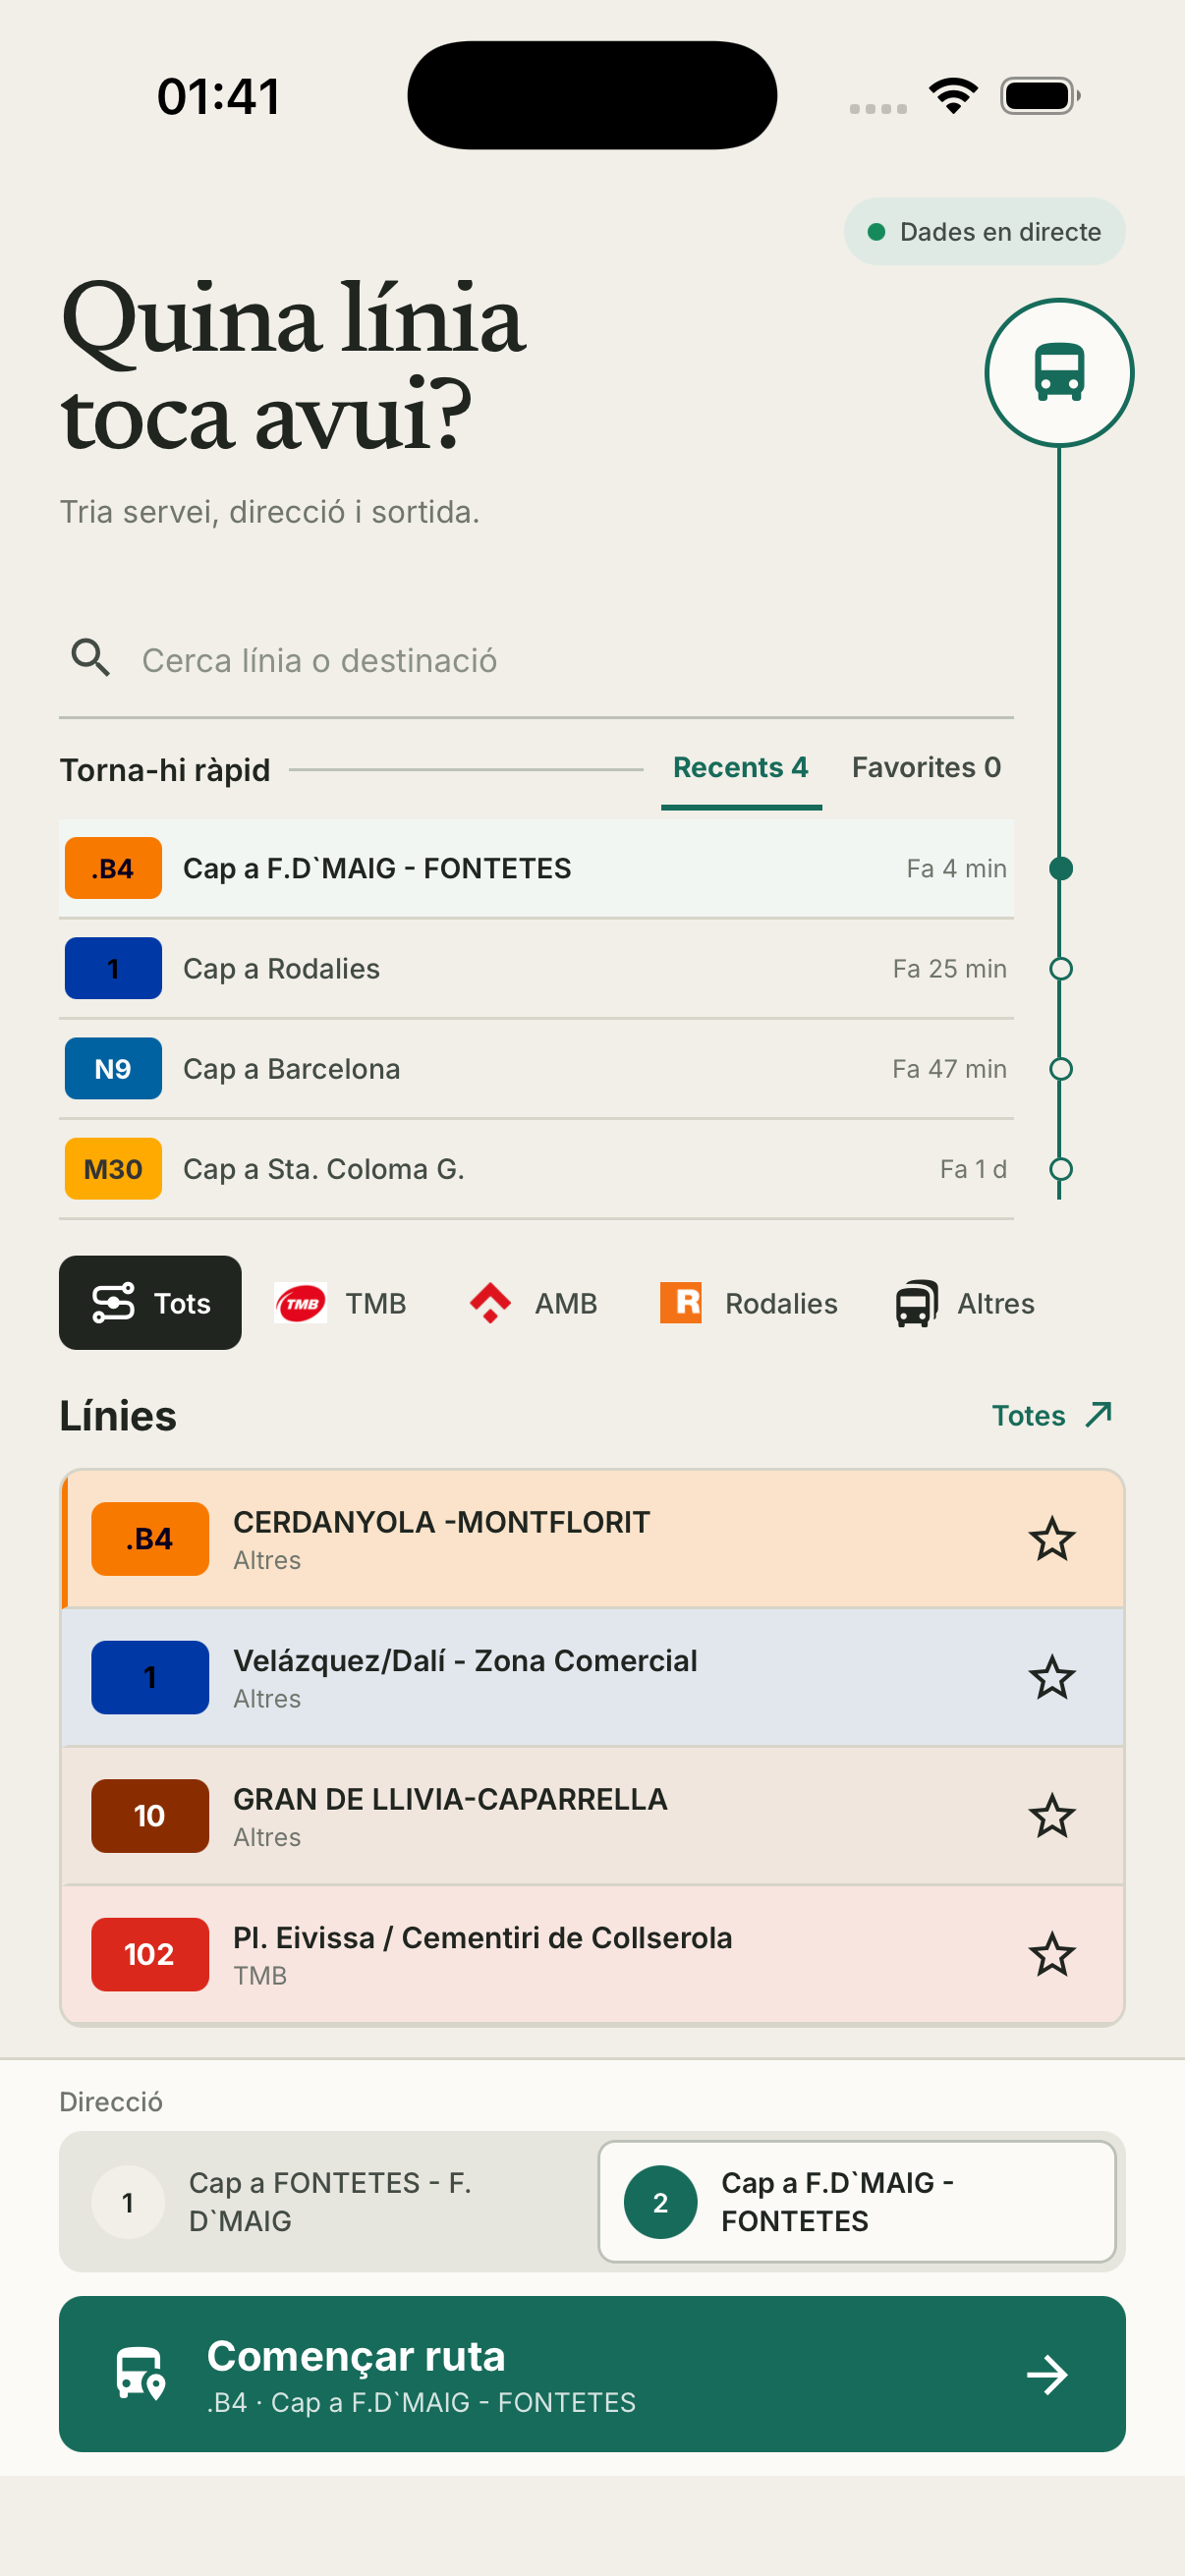
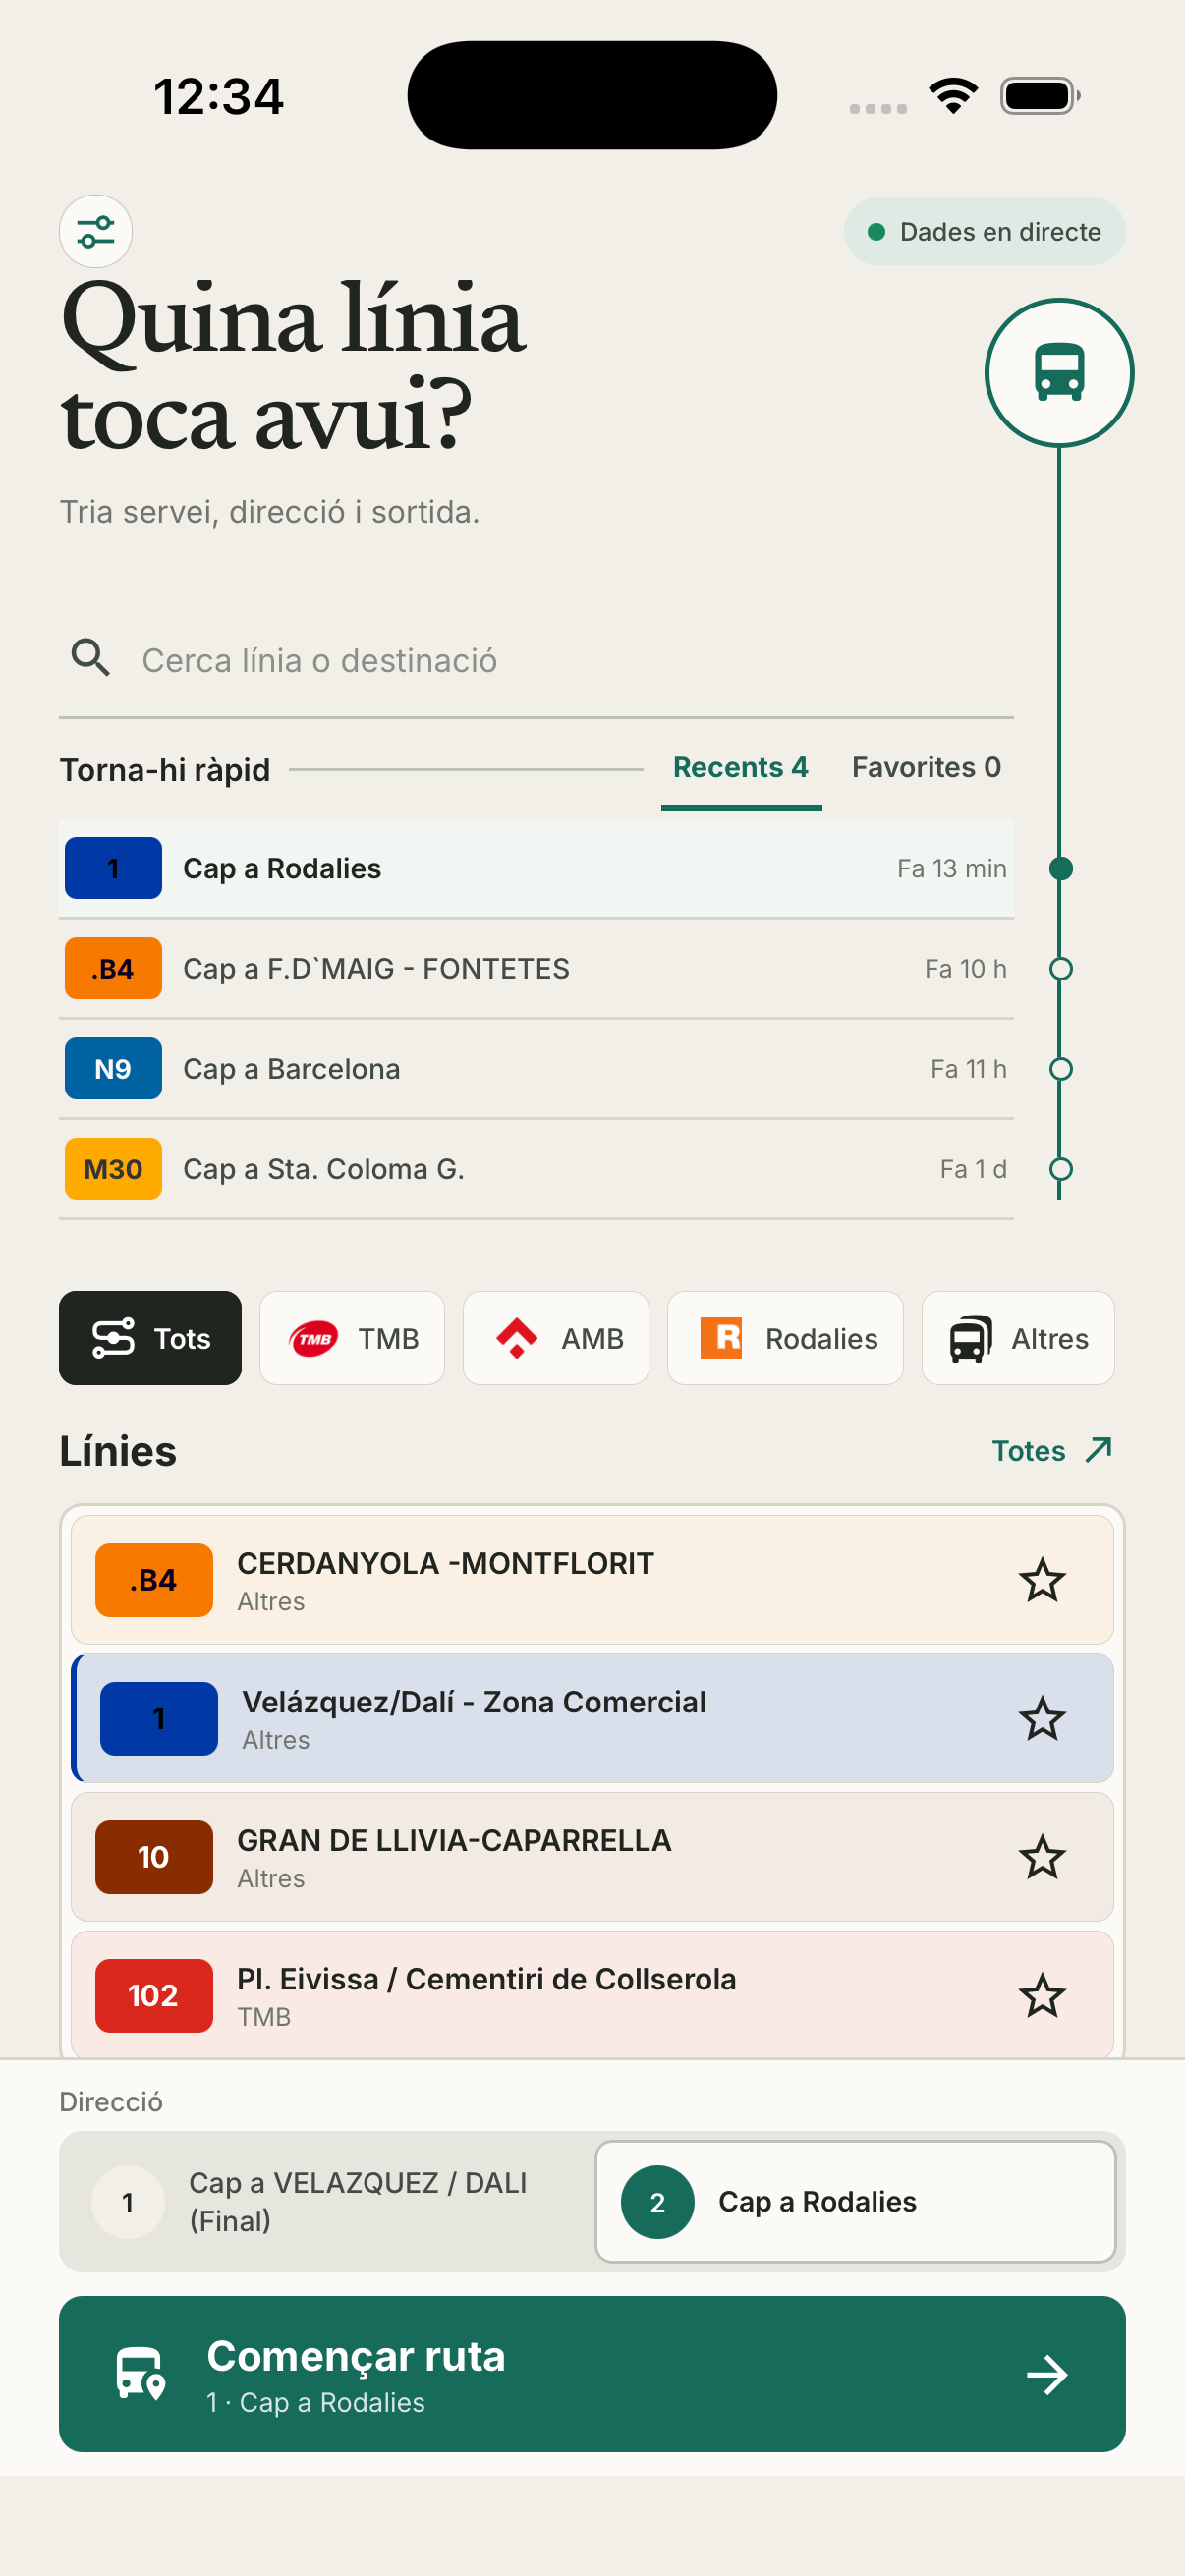
docs: showcase the app and vehicle handoff

diff --git a/README.md b/README.md
@@ -3,23 +3,29 @@
 Aplicació mòbil per preparar i seguir serveis d’autobús sobre la xarxa integrada de transport. El repositori inclou una app Expo/React Native orientada a iPhone i un Backend-for-Frontend FastAPI que agrega GTFS estàtic, GTFS-Realtime i informació de trànsit.
 
 <p align="center">
-  <img src="docs/screenshots/home.png" width="30%" alt="Selecció de línia i preferències locals">
+  <img src="docs/screenshots/home.png" width="22%" alt="Selecció de línia i preferències locals">
   &nbsp;
-  <img src="docs/screenshots/routes.png" width="30%" alt="Catàleg complet de línies">
+  <img src="docs/screenshots/routes.png" width="22%" alt="Catàleg complet de línies">
   &nbsp;
-  <img src="docs/screenshots/map.png" width="30%" alt="Navegació sobre el mapa fosc">
+  <img src="docs/screenshots/settings.png" width="22%" alt="Configuració d’idioma i vehicle">
+  &nbsp;
+  <img src="docs/screenshots/map.png" width="22%" alt="Navegació sobre el mapa fosc">
 </p>
 
 ## Què permet fer
 
 - Cercar i filtrar 1.000+ serveis per operador, codi o destinació.
+- Entrar amb una animació de sincronització i passar a un mode de cerca dedicat.
 - Consultar un catàleg complet de línies en una pantalla independent.
-- Guardar favorites i fins a quatre rutes recents localment, sense compte d’usuari.
+- Guardar favorites en una llista scrollable i fins a quatre rutes recents localment, sense compte d’usuari.
+- Prioritzar les línies amb parades més properes quan hi ha permís d’ubicació.
+- Canviar tota la interfície entre català i castellà.
+- Personalitzar el vehicle del mapa amb quatre accents validats.
 - Seleccionar sentit, sortida programada i vehicle abans d’iniciar el servei.
 - Navegar sobre un mapa fosc amb ruta, parades, posició projectada, edificis 3D i trànsit.
 - Treballar en retrat i horitzontal respectant les safe areas de l’iPhone.
 
-Les preferències es desen amb AsyncStorage, estan versionades, validades i limitades de mida. No s’hi desa cap dada sensible ni credencial d’usuari.
+Les preferències es desen amb AsyncStorage, estan versionades, validades i limitades de mida. No s’hi desa cap dada sensible ni credencial d’usuari. La ubicació només s’utilitza en memòria per calcular proximitat: l’app l’arrodoneix abans d’enviar-la al BFF i ni el client ni Redis la persisteixen.
 
 ## Arquitectura
 
@@ -40,7 +46,7 @@ ATM GTFS / GTFS-RT          TomTom Traffic
 ### App mòbil
 
 - Expo SDK 57 i React Native 0.86.
-- React Navigation amb pantalles d’inici, catàleg i mapa.
+- React Navigation amb pantalles d’inici, catàleg, configuració i mapa.
 - MapLibre Native amb CARTO i Esri World Imagery.
 - Cache local acotada per a favorites i recents.
 - Peticions amb timeout, validació d’identificadors i HTTPS obligatori fora de desenvolupament.
@@ -57,14 +63,22 @@ ATM GTFS / GTFS-RT          TomTom Traffic
 
 ```text
 app-conductor/             App Expo / React Native
-  src/screens/             Inici, catàleg i mapa
+  src/screens/             Inici, catàleg, configuració i mapa
   src/services/            API, presentació i preferències locals
 app/                       BFF FastAPI
   api/v1/                  GTFS, GTFS-RT, trànsit i WebSocket
   services/                Ingesta, normalització i cache
 tests/                     Proves del backend
 docs/screenshots/          Captures reals de l’iPhone Simulator
+docs/design/               Handoff vectorial del vehicle
 ```
+
+## Model del vehicle
+
+El marcador del bus és programàtic i no depèn d’una malla 3D. El handoff de disseny inclou les vistes superior, lateral, frontal i posterior, les proporcions i les quatre variants d’accent:
+
+- [SVG editable](docs/design/bus-vehicle-model.svg)
+- [Previsualització PNG](docs/design/bus-vehicle-model.png)
 
 ## Requisits
 
@@ -120,6 +134,7 @@ npx expo start --dev-client --host lan --port 8081
 Tots els endpoints de dades requereixen `X-API-Key`.
 
 - `GET /api/v1/gtfs/routes`
+- `POST /api/v1/gtfs/routes/nearby`
 - `GET /api/v1/gtfs/shapes/{route_id}`
 - `GET /api/v1/gtfs/stops/{route_id}`
 - `GET /api/v1/gtfs/routes/{route_id}/upcoming-trips`